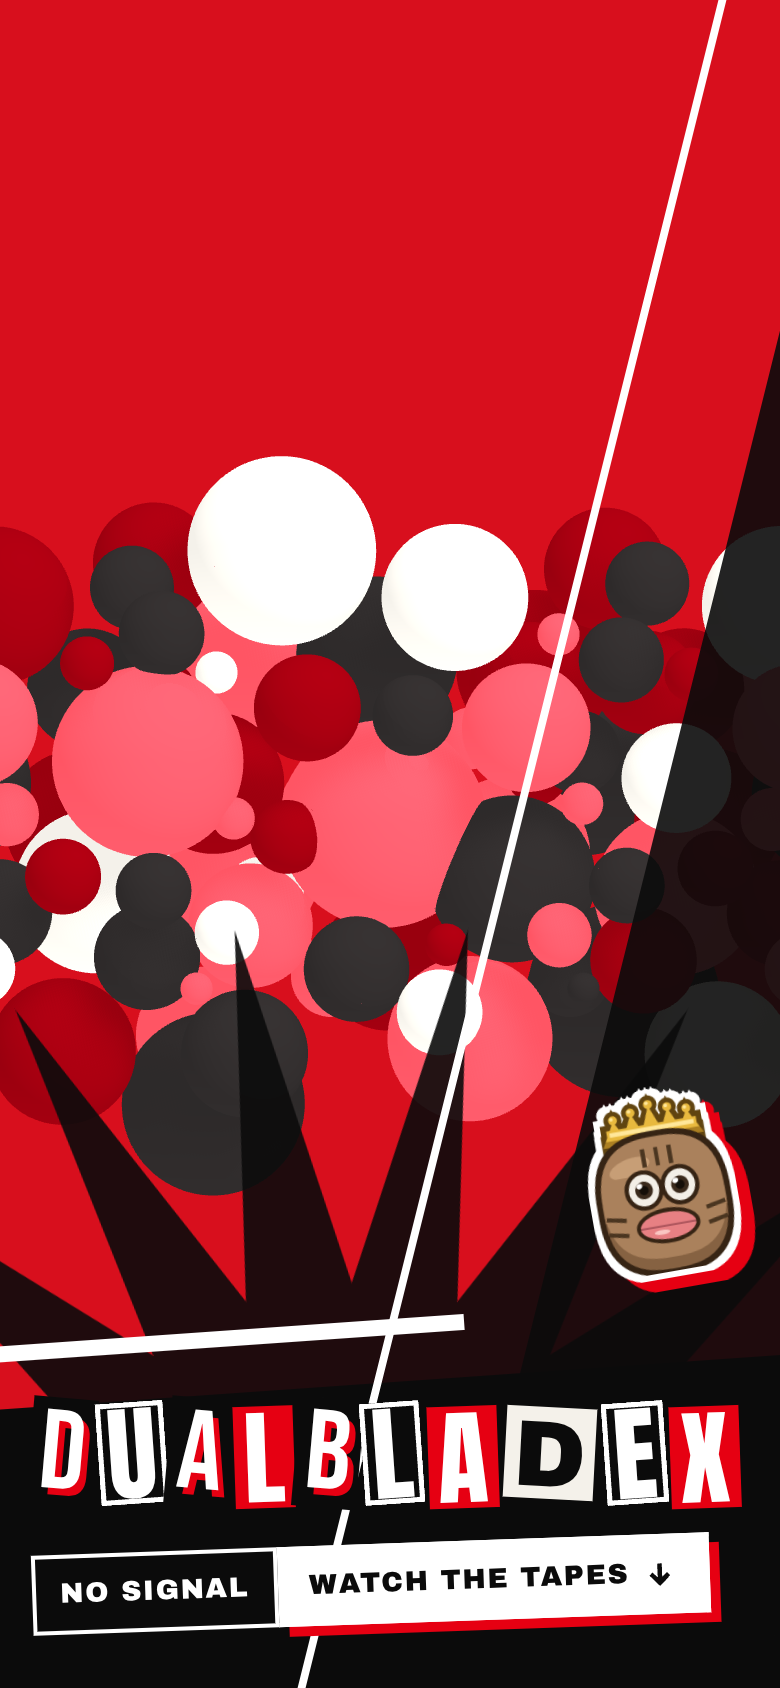
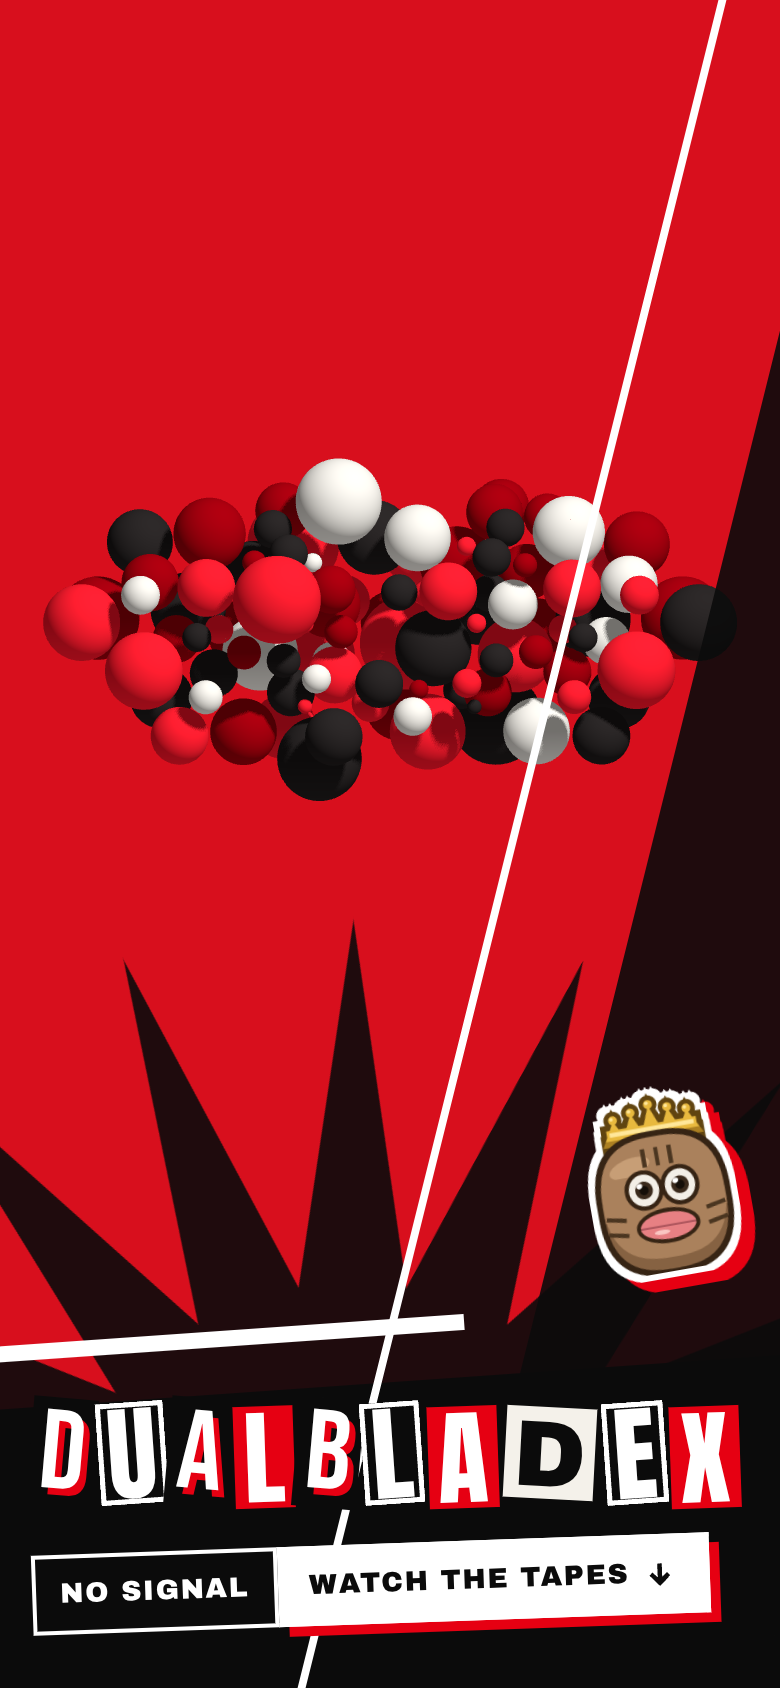
duo 001: shaded spheres with contact shadows; fit cluster on phones
Low ambient, stronger shadow-casting key spot, low emissive so each sphere
falls off into shadow. Camera pulls back until the cluster's full width fits
and a view offset lifts it above the title block on tall screens.

diff --git a/components/Spheres.tsx b/components/Spheres.tsx
@@ -12,15 +12,15 @@ import { createTapCounter, isTap } from "@/lib/tapCounter";
 // Room red behind the canvas (the pen's page gradient, persona-style).
 const ROOM = "#d80f1d";
 
-// [colour, emissive]: the pen's single material is a pale colour lit by a red emissive.
+// [colour, emissive]: a low emissive only lifts the shadow side, so each sphere keeps its form.
 const PAINTS: [string, string][] = [
-  ["#ff5562", "#e60012"], // hot red
-  ["#8f000b", "#3a0004"], // blood
-  ["#2a2626", "#0b0b0b"], // ink
-  ["#ff5562", "#e60012"],
-  ["#f4f1ea", "#000000"], // paper
-  ["#8f000b", "#3a0004"],
-  ["#2a2626", "#0b0b0b"],
+  ["#ff1f30", "#3a0004"], // hot red
+  ["#a3000d", "#1a0002"], // blood
+  ["#2a2626", "#000000"], // ink
+  ["#ff1f30", "#3a0004"],
+  ["#f4f1ea", "#1a1414"], // paper
+  ["#a3000d", "#1a0002"],
+  ["#2a2626", "#000000"],
 ];
 
 const RADII = [
@@ -63,6 +63,7 @@ const REVOLUTION_DURATION = 2; // seconds
 const BREATHING_AMPLITUDE = 0.1;
 const BREATHING_SPEED = 0.002;
 const CAMERA_Z = 24;
+const CLUSTER_HALF_WIDTH = 8;
 
 /**
  * The sphere cluster. Spheres swing up from below, breathe, are shoved by
@@ -97,14 +98,20 @@ export function Spheres() {
     const camera = new THREE.PerspectiveCamera(25, 1, 0.1, 1000);
     camera.position.z = CAMERA_Z;
 
-    // The pen's lighting, written for three's legacy light units; current
-    // three drops the PI factor and decays the spot with distance, so restore both.
-    scene.add(new THREE.AmbientLight(0xffffff, 1 * Math.PI));
-    const spot = new THREE.SpotLight(0xffffff, 0.52 * Math.PI, 0, Math.PI / 3, 0, 0);
+    // The pen's light rig (same positions), rebalanced toward the key light:
+    // a low ambient so every sphere falls off into shadow, and a spot (no
+    // distance decay) that casts the soft contact shadows between them.
+    scene.add(new THREE.AmbientLight(0xffffff, 0.55));
+    const spot = new THREE.SpotLight(0xffffff, 3.2, 0, 0.32, 0.6, 0);
     spot.position.set(14, 24, 30);
     spot.castShadow = true;
+    spot.shadow.mapSize.set(2048, 2048);
+    spot.shadow.camera.near = 20;
+    spot.shadow.camera.far = 70;
+    spot.shadow.bias = -0.0005;
+    spot.shadow.radius = 4;
     scene.add(spot);
-    const under = new THREE.DirectionalLight(0xffffff, 0.2 * Math.PI);
+    const under = new THREE.DirectionalLight(0xffffff, 0.35);
     under.position.set(0, -4, 0);
     scene.add(under);
 
@@ -168,9 +175,12 @@ export function Spheres() {
       if (!w || !h) return;
       renderer.setSize(w, h);
       camera.aspect = w / h;
-      // The pen is framed for a wide screen; pull back on narrow ones so more of the cluster shows.
-      camera.position.setLength(CAMERA_Z / Math.min(1, camera.aspect * 1.4));
-      camera.updateProjectionMatrix();
+      // The pen is framed for a wide screen; on narrow ones pull back until the
+      // cluster's full width (about 8 units each side) fits.
+      const halfTan = Math.tan(THREE.MathUtils.degToRad(camera.fov / 2)) * camera.aspect;
+      camera.position.setLength(Math.max(CAMERA_Z, CLUSTER_HALF_WIDTH / halfTan + 2.5));
+      // Lift the cluster into the space above the title block, more on tall screens.
+      camera.setViewOffset(w, h, 0, h * (camera.aspect < 1 ? 0.12 : 0.04), w, h);
     };
     resize();
     const sizer = new ResizeObserver(resize);
